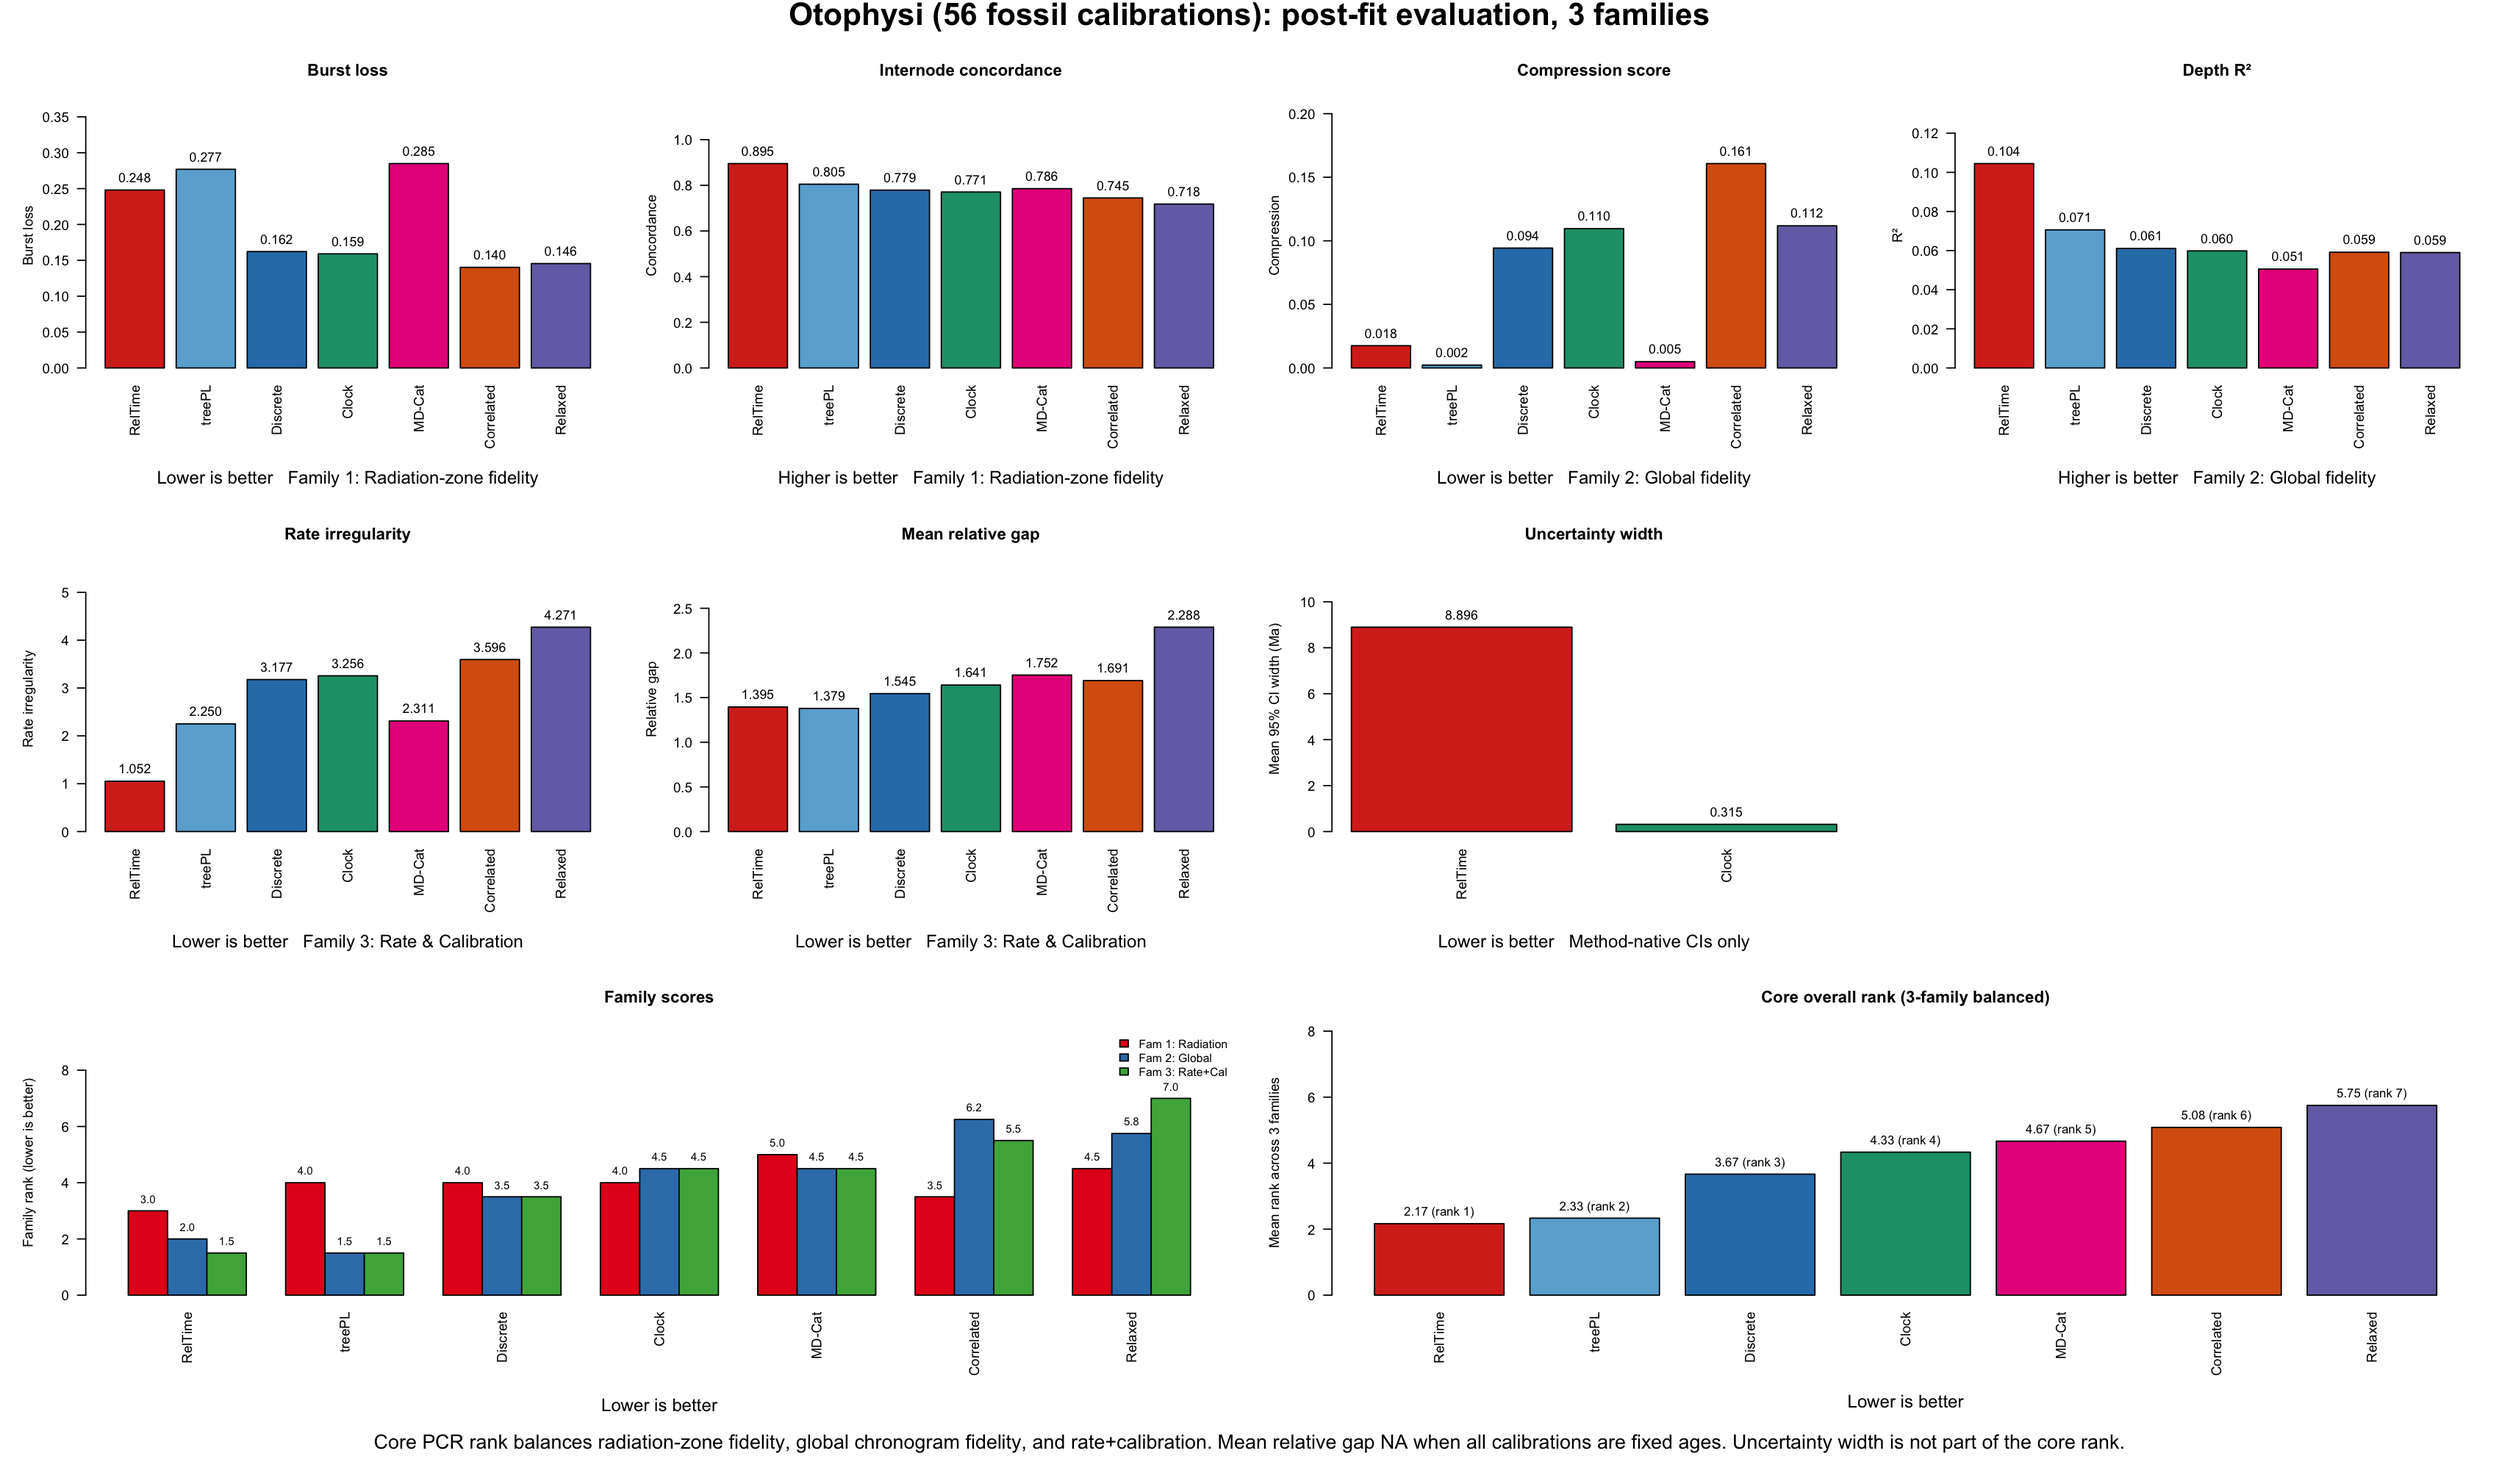
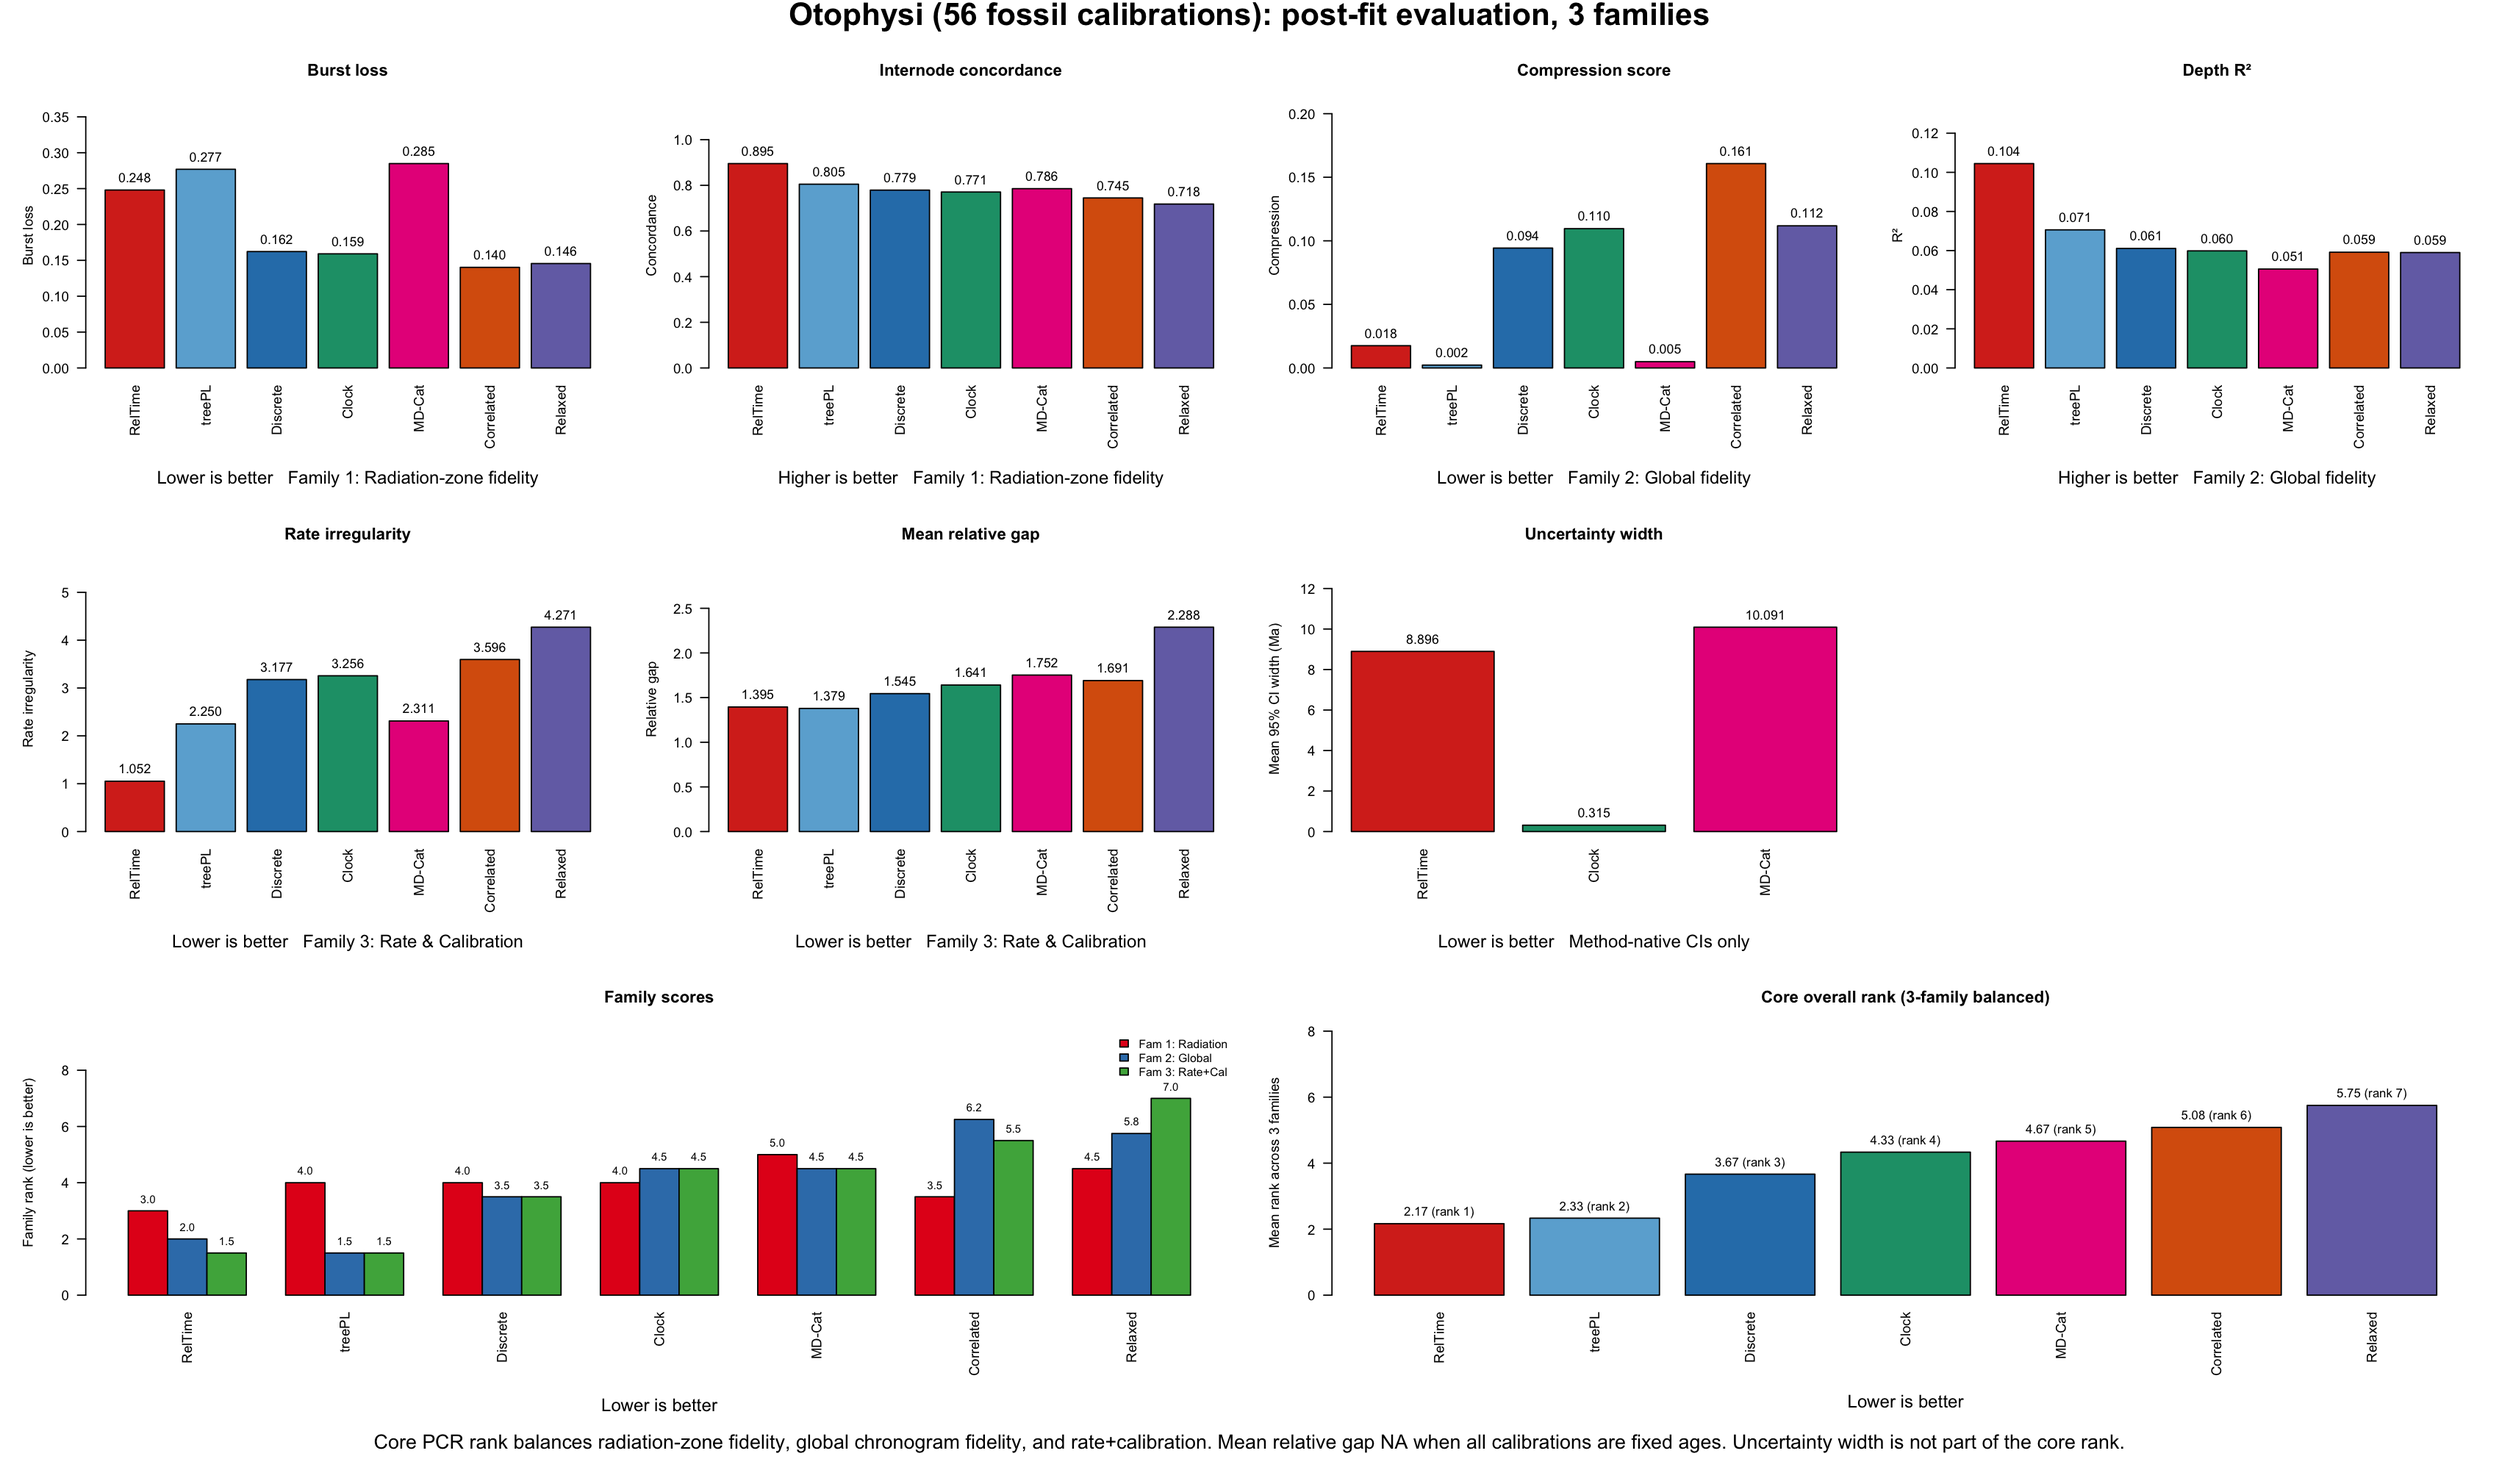
Add Ostariophysi MD-Cat bootstrap CIs to the width comparison
Ostariophysi MD-Cat now has 100 Poisson-bootstrap replicates (all OK).
Its mean 95% width is 10.09 Ma, against 8.90 Ma for RelTime and 0.31 Ma
for chronos_clock. Core ranks are unchanged; only the uncertainty-width
panel of the figure changes.

Also writes the MD-Cat bootstrap row into the full-grid uncertainty
summaries of the Syngnatharia and Terapontoidei runs, and adds a
cross-dataset note on MD-Cat interval widths.

Changed region(s): [[0.53, 0.403, 0.7482, 0.589]]

diff --git a/2_PCR_POSTFIT_METRICS/README.md b/2_PCR_POSTFIT_METRICS/README.md
@@ -509,11 +509,11 @@ Candidates: four `chronos` models and `RelTime` from the earlier pipeline run, `
 | `treePL_smooth0p01` | 0.277 | 0.805 | 0.002 | 0.071 | 2.250 | 1.379 | NA | 4.00 | 1.50 | 1.50 | 2.33 |
 | `chronos_discrete_lambda1_k2` | 0.162 | 0.779 | 0.094 | 0.061 | 3.177 | 1.545 | NA | 4.00 | 3.50 | 3.50 | 3.67 |
 | `chronos_clock_lambda1` | 0.159 | 0.771 | 0.110 | 0.060 | 3.256 | 1.641 | 0.31 | 4.00 | 4.50 | 4.50 | 4.33 |
-| `MDCat` | 0.285 | 0.786 | 0.005 | 0.051 | 2.311 | 1.752 | NA | 5.00 | 4.50 | 4.50 | 4.67 |
+| `MDCat` | 0.285 | 0.786 | 0.005 | 0.051 | 2.311 | 1.752 | 10.09 | 5.00 | 4.50 | 4.50 | 4.67 |
 | `chronos_correlated_lambda1` | 0.140 | 0.745 | 0.161 | 0.059 | 3.596 | 1.691 | NA | 3.50 | 6.25 | 5.50 | 5.08 |
 | `chronos_relaxed_lambda0p1` | 0.146 | 0.718 | 0.112 | 0.059 | 4.271 | 2.288 | NA | 4.50 | 5.75 | 7.00 | 5.75 |
 
-Only `RelTime` (bootstrap) and `chronos_clock` carry intervals here.
+`RelTime` (bootstrap), `chronos_clock` (parametric bootstrap) and `MDCat` (Poisson bootstrap) carry intervals here. `MDCat`'s are a little wider than `RelTime`'s (10.09 vs 8.90 Ma). `chronos_clock`'s are much narrower (0.31 Ma), because one rate for the whole tree leaves the node ages little room to move.
 
 ### Figure: Post-fit comparison across metric families
 
@@ -568,6 +568,7 @@ Six datasets, nine comparisons (Syngnatharia, Gobiaria and Ostariophysi have one
 - **`treePL`** ties `RelTime` for first in Vertebrate dense and is second in Vertebrate sparse, Gobiaria and Ostariophysi. In Vertebrate (both schemes), Tetraodontiformes sparse and Ostariophysi, other optimizer settings give node ages that differ from the chosen tree by a median of 8–28%, so these treePL dates are less stable than the rank suggests
 - **Calibration density** does not change the winner. `RelTime` is first under both schemes in Terapontoidei, Vertebrate and Tetraodontiformes, although in Vertebrate dense it only ties `treePL`. Density mostly moves the lower places: `MDCat` gains one place in Terapontoidei and Tetraodontiformes and loses two in Vertebrate
 - **Compression in `chronos`** is large only in Ostariophysi (0.094–0.161), the largest tree. There `chronos` also makes the deep nodes older. In the other datasets every candidate has compression of about 0.04 or less
+- **Interval widths** (not part of the core rank): `MDCat` has Poisson-bootstrap intervals in every example. They are narrower than `RelTime`'s in Syngnatharia, Terapontoidei, Tetraodontiformes and Vertebrate sparse (where `RelTime` has Tao intervals), about the same in Gobiaria (4.11 vs 4.16 Ma), and a little wider in Vertebrate dense (21.70 vs 20.12 Ma) and Ostariophysi (10.09 vs 8.90 Ma). In Terapontoidei, the only example with `treePL` intervals, they are wider than `treePL`'s
 
 <details>
 <summary><strong>Scope notes</strong></summary>
@@ -579,6 +580,6 @@ Six datasets, nine comparisons (Syngnatharia, Gobiaria and Ostariophysi have one
 - Trees that are the same after rounding (for example `chronos_relaxed` and `chronos_correlated` in several datasets) are scored once.
 - PCR reports raw scores and ranks. It does not yet attach bootstrap or permutation p-values to score differences.
 - The framework evaluates point chronograms. It does not yet propagate posterior tree uncertainty through the post-fit scores.
-- The optional `uncertainty width` layer uses the 95% intervals stored with each tree (`RelTime`: bootstrap or Tao; `chronos`: parametric bootstrap; `treePL` and `MDCat`: Poisson branch-length bootstrap; `MCMCTree`: HPD). It speaks to precision, not accuracy, and **does not contribute to the core rank**. Not every candidate has intervals: `treePL` has them only in Terapontoidei, and some `chronos` trees have none.
+- The optional `uncertainty width` layer uses the 95% intervals stored with each tree (`RelTime`: bootstrap or Tao; `chronos`: parametric bootstrap; `treePL` and `MDCat`: Poisson branch-length bootstrap; `MCMCTree`: HPD). It speaks to precision, not accuracy, and **does not contribute to the core rank**. Not every candidate has intervals: `MDCat` has them in every example, `treePL` only in Terapontoidei, and some `chronos` trees have none.
 
 </details>
